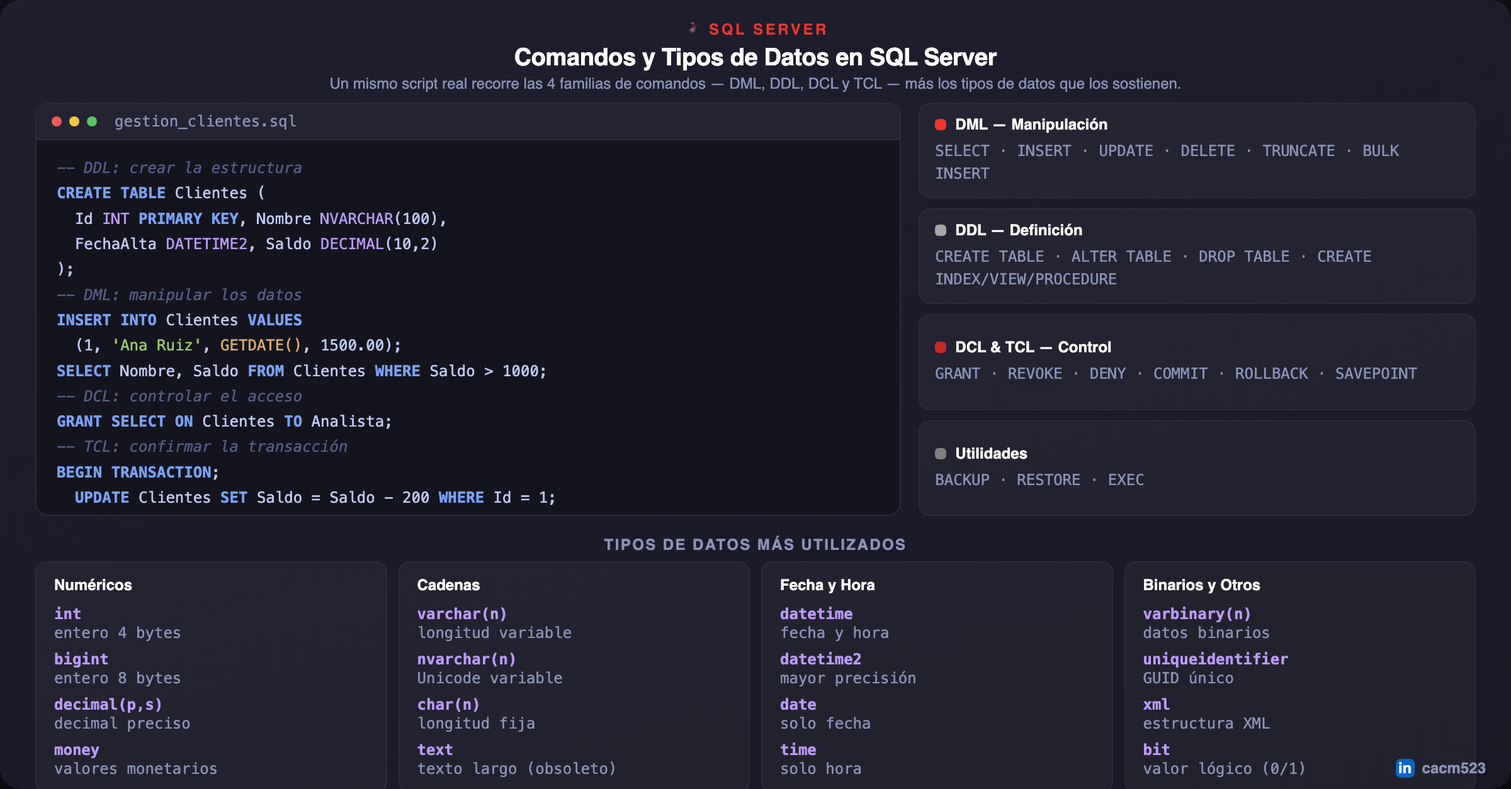
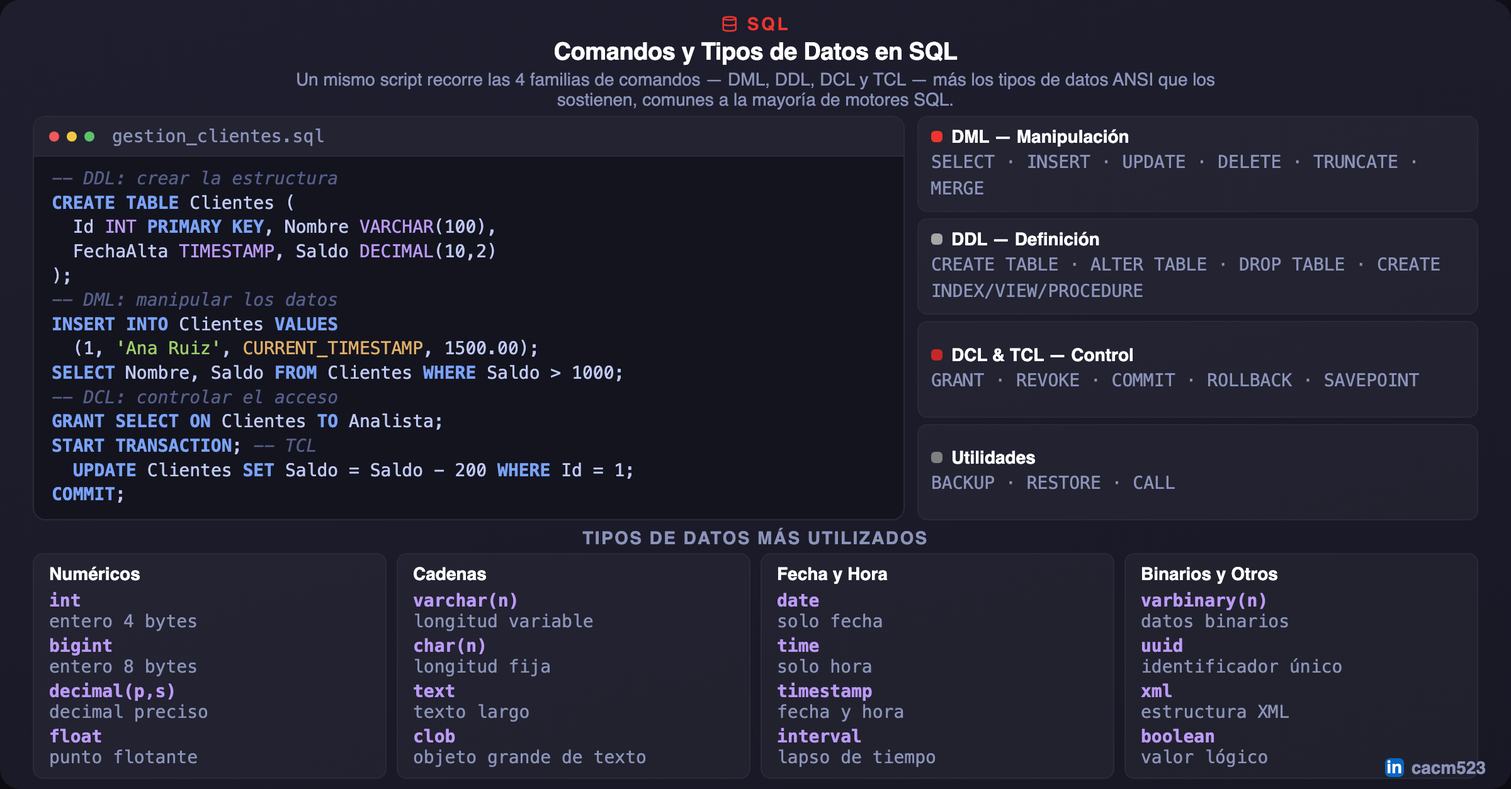
comandos-tipos-datos-sql: convierte de SQL Server a SQL genérico
Reemplaza el logo y la marca "SQL Server" por un ícono genérico de
base de datos y el título "SQL", y sustituye los tipos/comandos
específicos de dialecto (NVARCHAR, DATETIME2, GETDATE(), BEGIN
TRANSACTION, BULK INSERT, DENY, EXEC) por sus equivalentes ANSI SQL
estándar, comunes a la mayoría de motores (VARCHAR, TIMESTAMP,
CURRENT_TIMESTAMP, START TRANSACTION, MERGE, CALL). Ahora es la
referencia de diseño para el tema SQL sin acoplarse a un motor
puntual. Sube también el piso de fuente a 14px.

diff --git a/Construidos/SQL/comandos-tipos-datos-sql.html b/Construidos/SQL/comandos-tipos-datos-sql.html
@@ -2,7 +2,7 @@
 <html lang="es">
 <head>
 <meta charset="UTF-8">
-<title>Comandos y Tipos de Datos en SQL Server</title>
+<title>Comandos y Tipos de Datos en SQL</title>
 <meta name="viewport" content="width=device-width, initial-scale=1">
 <style>
   :root{
@@ -23,44 +23,44 @@
     position:relative; width:1200px; height:627px; margin:0 auto;
     background:linear-gradient(165deg, var(--bg) 0%, var(--bg2) 100%);
     border-radius:16px; box-shadow:0 24px 60px rgba(0,0,0,0.5); overflow:hidden;
-    padding:16px 28px 12px; color:var(--text);
+    padding:11px 26px 8px; color:var(--text);
     display:flex; flex-direction:column; min-height:0;
   }
 
-  .header{ text-align:center; margin-bottom:8px; }
-  .header .eyebrow{ display:inline-flex; align-items:center; gap:6px; font-size:12px; font-weight:700; letter-spacing:1.8px; color:var(--dml); text-transform:uppercase; margin-bottom:3px; }
+  .header{ text-align:center; margin-bottom:5px; }
+  .header .eyebrow{ display:inline-flex; align-items:center; gap:6px; font-size:14px; font-weight:700; letter-spacing:1.8px; color:var(--dml); text-transform:uppercase; margin-bottom:3px; }
   .header .eyebrow svg{ width:15px; height:15px; flex:none; }
   .header h1{ font-size:19px; margin:0 0 3px; font-weight:800; letter-spacing:-0.2px; color:#fff; }
-  .header p{ margin:0 auto; font-size:12px; color:#8B93B8; max-width:760px; }
+  .header p{ margin:0 auto; font-size:14px; color:#8B93B8; max-width:760px; }
 
-  .main{ flex:1.65; min-height:0; display:flex; gap:14px; }
+  .main{ flex:1.7; min-height:0; display:flex; gap:10px; }
   .editor{ flex:1.55; background:var(--editor); border-radius:10px; border:1px solid #2A2A3D; display:flex; flex-direction:column; overflow:hidden; }
   .editor .titlebar{ display:flex; align-items:center; gap:6px; padding:7px 12px; background:#232332; border-bottom:1px solid #2A2A3D; }
   .titlebar .dot{ width:8px; height:8px; border-radius:50%; }
   .titlebar .d1{ background:#F1595A; } .titlebar .d2{ background:#F2C744; } .titlebar .d3{ background:#5CC26A; }
-  .titlebar span{ margin-left:8px; font-size:12px; color:#8B93B8; font-family: "SF Mono", Menlo, Consolas, monospace; }
-  .code{ flex:1; padding:12px 16px; font-family: "SF Mono", Menlo, Consolas, monospace; font-size:12px; line-height:1.68; overflow:hidden; }
+  .titlebar span{ margin-left:8px; font-size:14px; color:#8B93B8; font-family: "SF Mono", Menlo, Consolas, monospace; }
+  .code{ flex:1; padding:8px 14px; font-family: "SF Mono", Menlo, Consolas, monospace; font-size:14px; line-height:1.38; overflow:hidden; }
   .code .ln{ color:#565F89; display:inline-block; width:16px; }
   .kw{ color:var(--keyword); font-weight:700; } .tp{ color:var(--type); } .st{ color:var(--string); } .cm{ color:var(--comment); font-style:italic; } .fn{ color:var(--func); }
 
-  .legend{ flex:1; display:flex; flex-direction:column; gap:8px; }
-  .cat{ flex:1; background:rgba(255,255,255,0.04); border:1px solid #2A2A3D; border-radius:9px; padding:9px 12px; display:flex; flex-direction:column; justify-content:center; }
-  .cat .top{ display:flex; align-items:center; gap:7px; margin-bottom:5px; }
+  .legend{ flex:1; display:flex; flex-direction:column; gap:5px; }
+  .cat{ flex:1; background:rgba(255,255,255,0.04); border:1px solid #2A2A3D; border-radius:8px; padding:5px 10px; display:flex; flex-direction:column; justify-content:center; }
+  .cat .top{ display:flex; align-items:center; gap:7px; margin-bottom:2px; }
   .cat .dotc{ width:9px; height:9px; border-radius:3px; flex:none; }
-  .cat b{ font-size:12px; font-weight:800; color:#fff; }
-  .cat span{ font-size:12px; color:#8B93B8; font-family: "SF Mono", Menlo, Consolas, monospace; line-height:1.5; }
+  .cat b{ font-size:14px; font-weight:800; color:#fff; }
+  .cat span{ font-size:14px; color:#8B93B8; font-family: "SF Mono", Menlo, Consolas, monospace; line-height:1.5; }
 
-  .types-label{ margin-top:16px; margin-bottom:6px; font-size:12px; font-weight:800; letter-spacing:1.2px; text-transform:uppercase; color:#8B93B8; text-align:center; }
-  .types{ flex:0.85; min-height:0; display:grid; grid-template-columns: repeat(4, minmax(0, 1fr)); gap:9px; }
-  .tcat{ background:rgba(255,255,255,0.04); border:1px solid #2A2A3D; border-radius:9px; padding:11px 14px; display:flex; flex-direction:column; justify-content:center; gap:7px; }
-  .tcat b{ font-size:12px; font-weight:800; color:#fff; display:block; margin-bottom:2px; }
-  .tcat .row{ display:flex; flex-direction:column; gap:1px; font-size:12px; font-family: "SF Mono", Menlo, Consolas, monospace; }
+  .types-label{ margin-top:6px; margin-bottom:4px; font-size:14px; font-weight:800; letter-spacing:1.2px; text-transform:uppercase; color:#8B93B8; text-align:center; }
+  .types{ flex:0.95; min-height:0; display:grid; grid-template-columns: repeat(4, minmax(0, 1fr)); gap:8px; }
+  .tcat{ background:rgba(255,255,255,0.04); border:1px solid #2A2A3D; border-radius:8px; padding:7px 12px; display:flex; flex-direction:column; justify-content:center; gap:3px; }
+  .tcat b{ font-size:14px; font-weight:800; color:#fff; display:block; margin-bottom:2px; }
+  .tcat .row{ display:flex; flex-direction:column; gap:0px; font-size:14px; line-height:1.18; font-family: "SF Mono", Menlo, Consolas, monospace; }
   .tcat .row code{ color:var(--type); font-weight:700; }
   .tcat .row span{ color:#8B93B8; }
 
   .footer{ position:absolute; bottom:9px; right:20px; display:flex; align-items:center; gap:6px; }
-  .li-badge{ width:15px; height:15px; border-radius:4px; background:#0A66C2; color:#fff; display:flex; align-items:center; justify-content:center; font-size:12px; font-weight:800; font-family: Arial, sans-serif; }
-  .footer span{ font-size:12px; font-weight:600; color:#8B93B8; }
+  .li-badge{ width:15px; height:15px; border-radius:4px; background:#0A66C2; color:#fff; display:flex; align-items:center; justify-content:center; font-size:14px; font-weight:800; font-family: Arial, sans-serif; }
+  .footer span{ font-size:14px; font-weight:600; color:#8B93B8; }
 </style>
 </head>
 <body>
@@ -69,9 +69,9 @@
   <div class="canvas">
 
     <div class="header">
-      <div class="eyebrow"><svg xmlns="http://www.w3.org/2000/svg" xml:space="preserve" viewBox="0.03 0 633.27 511.9"><linearGradient id="sqls1-a" x1="62.23" x2="62.483" y1="81.873" y2="81.873" gradientTransform="scale(115.9464 -115.9464)rotate(30.578 187.04 -69.817)" gradientUnits="userSpaceOnUse"><stop offset="0" style="stop-color:#909ca9"/><stop offset="1" style="stop-color:#ededee"/></linearGradient><path d="m429.3 163-69.9 22.8-60.8 26.9-17 4.5c-4.3 4.1-8.9 8.3-13.8 12.5-5.4 4.7-10.4 8.9-14.3 11.9-4.3 3.4-10.6 9.7-13.8 13.7-4.8 6-8.6 12.4-10.3 17.3-2.9 8.9-1.5 17.9 4.1 26.2 7.2 10.6 21.5 21.4 38.2 28.7 8.5 3.8 22.8 8.6 33.6 11.3 17.9 4.5 52.6 9.5 71.7 10.2 3.9.2 9 .2 9.3 0 .4-.3 3.4-5.9 6.8-13 11.7-23.9 20.2-46.4 24.8-65.6 2.7-11.6 4.9-27.1 6.3-45.5.4-5.1.5-22.3.2-28.1-.5-9.5-1.3-17.2-2.6-24.8-.2-1.1-.3-2.1-.2-2.2.2-.2.8-.4 9.5-2.9zm-15.9 9.4c.6 0 2.3 16.2 2.7 26.5.1 2.2.1 3.6-.1 3.6-.4 0-8.9-5-15-8.8-5.3-3.3-15.3-10-16.9-11.3-.5-.4-.5-.4 3.9-1.9 7.4-2.5 24.8-8.1 25.4-8.1m-35.6 11.7c.5 0 1.7.7 4.6 2.5 10.9 6.8 25.7 15.1 32 17.8 2 .8 2.2.5-2.3 3.6-9.6 6.6-21.6 13-36.3 19.5-2.6 1.2-4.8 2.1-4.8 2.1-.1 0 .2-1.3.6-2.9 3.5-13.2 5.6-26.5 5.7-37.2 0-5.3 0-5.3.5-5.4-.2 0-.1 0 0 0m-7.4 2.8c.3.3.1 12.2-.3 15.4-1 7.7-2.4 14.9-4.9 23-.6 2-1.1 3.6-1.2 3.7-.2.3-7.5-6.8-9.8-9.6-4.1-4.8-7.3-9.5-9.7-14.2-1.2-2.4-3.1-7-3-7.2.8-.5 28.7-11.3 28.9-11.1m-34.6 13.6c.1 0 .1 0 .2.1s.5 1 .8 1.9c1.7 4.6 5.5 11.4 8.8 15.7 3.6 4.8 8.3 9.8 12.2 13.2 1.3 1.1 2.4 2.1 2.6 2.2.3.3.4.3-8.2 3.5-10 3.8-20.9 7.6-33.4 11.6-3 1-6 1.9-8.9 2.9-.5.2-.3-.1 1.1-2.3 6.2-9.7 15.6-28.7 20.9-42.1.9-2.3 1.8-4.7 2-5.2.2-.7.5-1 1.2-1.4.2 0 .6-.1.7-.1m-10.5 4.4c.2.1-2.5 5.8-5.2 10.9-5.1 10-10.7 19.8-18.2 31.8-1.3 2.1-2.5 4-2.6 4.2-.3.4-.4.3-1.2-1.4-1.8-3.5-3.3-8.1-4.1-12.3-.8-4.1-.6-11.3.3-15.8.7-3.3.6-3.2 2.2-4 6.7-3.4 28.5-13.6 28.8-13.4m91.1 3.7v2.2c0 11.8-1.3 28-3.1 39.8-.3 2.1-.6 3.8-.6 3.8s-1.5-.4-3.3-1c-7.9-2.5-16.5-6.1-24.3-10.4-5.1-2.8-12.6-7.4-12.4-7.6.1-.1 2.3-1.2 4.9-2.6 10.4-5.4 20.3-11.2 28.9-17 3.2-2.2 8.1-5.7 9.1-6.6zm-131.1 15.6c.2 0 .2.4-.2 2.3-.2 1.4-.5 3.9-.6 5.7-.4 7.7.8 13.4 4.7 21.3 1.1 2.2 1.9 4 1.9 4-.4.3-35.4 10.6-46.4 13.6-3.3.9-6.1 1.7-6.3 1.7-.4.1-.4.1-.3-.8 1.2-7.8 7.1-17.9 15.4-26.5 5.5-5.7 9.9-9 17.4-13.3 5.4-3.1 13.7-7.7 14.3-7.9 0-.1.1-.1.1-.1m82.5 14.8c.1-.1 1.3.6 2.9 1.5 11.3 6.6 27.1 12.6 40.5 15.8l1.2.3-1.7 1c-7 3.9-30.1 13.5-53.8 22.4-3.4 1.3-6.8 2.5-7.5 2.8-.6.3-1.2.4-1.2.4 0-.1 1-1.9 2.2-4.2 6.6-12.4 13.3-27.4 16.7-37.9zm-8.4 2.7c.1.1-.4 1.2-.9 2.4-4.6 11.2-10.6 23.3-18.3 37l-3.6 6.3c-.1 0-1.6-1-3.5-2.1-11.2-6.9-21.1-15.3-27.6-23.5l-1-1.2 4.8-1.3c17.2-4.7 31.9-9.8 46.4-16 2-.9 3.7-1.6 3.7-1.6m52.2 18.3s.1 0 0 0c.1 1.2-2.6 12.1-4.9 20-1.8 6.6-3.4 11.8-6.3 20.9-1.3 4-2.4 7.3-2.4 7.3-.1 0-.4-.1-.7-.2-15.7-2.9-29.8-6.8-43-12.1-3.7-1.5-9-3.9-9.3-4.1-.1-.1 3.1-1.6 7.1-3.3 24.1-10.5 49-22.5 57.6-27.6 1-.6 1.8-.9 1.9-.9m-120.5 4.1c.1.1-6.6 9.8-16 22.9-3.3 4.6-7.1 10-8.5 12s-3.6 5.2-4.8 7.1l-2.2 3.4-2.4-2c-2.8-2.3-7.7-7.3-9.8-10-4.5-5.7-7.6-11.6-8.8-17.1-.6-2.5-.6-3.8-.1-4 .8-.2 14.9-3.5 28.1-6.6 7.3-1.7 15.9-3.7 18.9-4.4s5.5-1.3 5.6-1.3m6.7 2.6 1.7 1.9c7.6 8.5 15.4 14.8 24.8 20.3 1.7 1 3 1.8 2.9 1.9-.4.3-32.7 11.7-47.6 16.9-8.4 3-15.3 5.3-15.4 5.3s-.5-.3-1.1-.7l-1-.7 1.5-2.2c5-7.2 11.2-15.1 24.8-31.5zm42.2 30.2c.1-.1 2.4.8 5.2 1.9 6.9 2.6 12.3 4.2 19.6 6.1 9 2.3 22 4.5 29.7 5.1 1.2.1 1.8.2 1.6.4-.4.2-8.1 2.8-13.8 4.6-9.1 2.9-36.8 11-59.5 17.6-4.2 1.2-7.8 2.2-8 2.3-.5.1-2.3-.4-2.3-.6 0-.1 1.3-1.7 2.8-3.5 7.6-9.1 15.2-19.2 21.5-28.9 1.7-2.8 3.2-5 3.2-5m-9.3.2c.1.1-3.7 6.1-10.3 16.4-2.8 4.4-5.9 9.4-7 11.1s-2.6 4.3-3.5 5.8l-1.5 2.7-.8-.2c-1.9-.5-15.3-5.2-18.8-6.7-4.4-1.7-8.9-3.9-12.3-5.7-4.2-2.3-9.5-5.7-9.1-5.8.1-.1 7.3-2 16.1-4.4 23.2-6.3 36-9.9 44.4-12.6 1.4-.2 2.8-.6 2.8-.6m65.8 15.5c.3.5-8.3 24.3-11.4 31.8-.7 1.7-.9 2.1-1.3 2.1-.9-.1-13.3-1.8-20.9-2.9-13.2-2-35.3-5.9-40.8-7.1l-1.3-.3 7.9-1.8c16.9-3.8 25.1-5.9 33.3-8.4 10.4-3.2 20.7-7.1 31.1-12 1.7-.8 3-1.4 3.4-1.4" style="fill:url(#sqls1-a)"/><linearGradient id="sqls1-b" x1="61.44" x2="61.693" y1="73.151" y2="73.151" gradientTransform="matrix(80.3196 0 0 -80.3196 -4653.717 5908.5)" gradientUnits="userSpaceOnUse"><stop offset="0" style="stop-color:#939fab"/><stop offset="1" style="stop-color:#dcdee1"/></linearGradient><path d="M357.2 0c-1.2-.2-19.9 6.6-32 11.5-16.3 6.7-29 13-36.8 18.5-2.9 2.1-6.6 5.7-7.1 7.1-.2.5-.3 1.2-.3 1.8l7.1 6.7L305 51l40.1 7.2 45.9 7.9.5-4c-.2 0-.3-.1-.4-.1l-6-1-1.2-2.2c-6.2-11-13.1-24.6-17.1-33.8-3.1-7.1-6.1-15.4-7.7-21.3-1.2-3.4-1.3-3.6-1.9-3.7m-.8 2.7c.1.1.3 1.5.5 3.3.9 7.4 2.5 14.5 5.1 22.3 2 5.8 2 5.5-.3 4.8-5.4-1.5-29.5-5.7-47-8.1-2.8-.4-5.2-.7-5.2-.8-.2-.2 12.6-6.9 18.3-9.6C335 11.3 354.9 3 356.4 2.7m-51 23.7 2.1.7c11.2 3.8 39.4 9.2 54.9 10.5 1.7.2 3.2.3 3.3.3.1.1-1.4.8-3.3 1.7-7.5 3.8-15.8 8.4-21.5 11.9-1.7 1.1-3.2 1.9-3.4 1.9s-1.3-.2-2.5-.4l-2.1-.3-5.3-5.2c-9.3-9-16.6-16-19.4-18.7zm-2.1 1.6 7.5 9.3c4.1 5.1 8.2 10.1 9.1 11.3.9 1.1 1.6 2 1.6 2.1-.2.2-10.8-1.9-16.4-3.2-5.8-1.3-8.1-2-11.7-3.1l-2.9-1v-.7c.1-3.5 4.5-8.8 12.2-14.2zm63.4 12.7c.2 0 .5.5 1.1 1.9 1.8 4 7.4 14.6 8.8 16.7.4.7 1.2.7-6.3-.5-17.9-2.9-23.7-3.9-23.7-4s.5-.4 1.2-.8c5.6-3.1 11.2-7 16.1-11.2 1.2-1 2.3-2 2.5-2.1z" style="fill:url(#sqls1-b)"/><radialGradient id="sqls1-c" cx="62.555" cy="82.145" r=".146" gradientTransform="matrix(-177.6748 -26.6887 -53.9771 355.3494 15932.146 -27394.307)" gradientUnits="userSpaceOnUse"><stop offset="0" style="stop-color:#ee352c"/><stop offset="1" style="stop-color:#a91d22"/></radialGradient><path d="M281.6 36.4s-1.2 1.9-.1 4.6c.7 1.7 2.7 3.8 5 5.9 0 0 23.5 22.9 26.4 26.2 13 15 18.7 29.8 19.2 50.2.3 13.1-2.2 24.6-8.4 38-11 24-34.2 50.5-70 79.9l5.2-1.7c3.4-2.5 8-5.2 18.8-11.2 24.9-13.6 52.9-26.2 87.3-39.1 49.5-18.6 130.8-40.4 177.1-47.5l4.8-.7-.7-1.2c-4.2-6.6-7.1-10.6-10.6-15-10.1-12.6-22.5-22.8-37.5-31.2C477.4 82 450.6 73 416.6 66.3c-6.4-1.3-20.5-3.7-31.9-5.4-24.2-3.8-39.9-6.3-57.1-9.3-6.2-1.1-15.4-2.6-21.6-4-3.2-.7-9.3-2.1-14-3.8-3.7-1.4-9.2-2.9-10.4-7.4m13.6 13.2c.1-.1.9.3 2 .6 2 .7 4.6 1.5 7.7 2.3 2.3.6 4.6 1.3 7 1.9 3.2.8 5.8 1.5 5.9 1.5.4.4 5.7 17.4 7.5 24 .7 2.5 1.2 4.6 1.2 4.6-.1.1-.6-.8-1.3-2.1-6.2-10.9-16-21.9-27.3-30.8-1.6-1-2.7-1.9-2.7-2m26 7.2c.3 0 1.4.2 2.9.5 9 2 25.1 5.1 35.4 6.8 1.7.3 3.1.6 3.1.7s-.6.5-1.4.9c-1.7.9-8.8 5.1-11.1 6.7-5.9 3.9-11.2 8.1-15 11.9-1.5 1.5-2.9 2.8-2.9 2.8s-.3-.9-.6-2c-1.9-7.3-5.9-18.2-9.5-25.9-.4-1.2-.9-2.3-.9-2.4 0 .1 0 0 0 0m45.8 8.8c.3.1.8 1.9 1.9 5.9 2 7.7 2.9 16.2 2.5 24.2-.1 2.2-.2 4.3-.3 4.5l-.2.5-2.7-.9c-5.7-1.8-14.9-4.5-22.7-6.7-4.5-1.2-8.1-2.3-8.1-2.4 0-.3 6.6-6.9 9.4-9.4 5.3-4.7 19.7-15.9 20.2-15.7m3.7.5c.2-.2 21.9 3.6 31.8 5.5 7.3 1.4 18 3.6 18.7 3.9.3.1-.8.7-4.3 2.3-14 6.3-24.3 11.9-34.6 18.8-2.7 1.8-5 3.3-5 3.3-.1 0-.1-1.5-.1-3.4 0-10-2-20.2-5.7-28.8-.6-.8-.9-1.6-.8-1.6m56.2 11.1c.2.2-.5 4.4-1.2 7-1.9 7.9-7 19.6-13.3 30.6-1.1 2-2.1 3.5-2.2 3.6s-1.5-.7-3.2-1.7c-6.1-3.6-13.1-7-20.7-10.1-2.1-.9-4-1.6-4-1.7-.4-.3 16.7-11.6 25.6-17 7.1-4.5 18.7-10.9 19-10.7m4 .6c.5 0 10.1 2.6 15.1 4.1 12.4 3.7 26.7 8.9 36 13.2l3.9 1.7-2.7.6c-22.7 5.2-42.2 11.3-60.9 18.9-1.5.6-2.9 1.2-3 1.2s.4-1.2 1.1-2.7c5.7-12 9.3-24.5 10.2-35.2 0-1 .1-1.8.3-1.8m-95.8 22c.2-.2 7.5 1.6 11.5 2.7 6 1.7 18.8 6 18.8 6.3 0 .1-1.4 1.3-3.1 2.7-6.9 5.8-13.6 11.8-21.6 19.6-2.4 2.3-4.4 4.1-4.5 4.1s-.2-.3-.1-.7c1.2-8.9 1-20.3-.7-31.9-.2-1.5-.4-2.7-.3-2.8m154.4.2c.1.1-3.4 5.6-5.6 8.7-3.2 4.5-7.8 10.6-18.3 23.8-5.5 7-11.8 14.9-13.8 17.5-2.1 2.6-3.9 4.9-3.9 4.9-.1 0-.7-1-1.5-2.1-5.9-8.9-13-16.7-21.4-23.6-1.6-1.3-3.3-2.7-3.9-3.2-.6-.4-1.1-.8-1.1-.9 0-.2 9-4 15.8-6.8 11.9-4.9 28.2-10.7 40.4-14.4 6.4-2.1 13.2-4 13.3-3.9m4.1 1c.2-.1 1.5.6 3 1.5 12.8 7.3 25.4 16.8 35.4 26.5 2.8 2.7 9.7 9.9 9.6 10 0 0-2.4.2-5.3.4-22.3 1.7-50.7 6.4-78.1 13-1.9.4-3.5.8-3.6.8s2-2.1 4.5-4.5c16.1-15.5 23.4-25.3 32.1-42.7 1.2-2.6 2.3-4.8 2.4-5q-.15 0 0 0m-117.8 12.1c.7.2 7.6 3.4 12.8 6 4.8 2.4 11.9 6.2 12.3 6.5.1.1-2.5 1.4-5.6 2.9-9.9 5-18.4 9.7-27.3 15.1-2.5 1.5-4.7 2.8-4.7 2.8-.2 0-.2-.2 1.3-2.8 4.8-8.7 8.6-19 10.7-29.1.2-.9.4-1.4.5-1.4m-6.8 1.2c.2.2-1.6 6.7-2.7 10.2-2.2 6.7-5.8 15.1-9.4 21.5-.8 1.5-2.1 3.6-2.8 4.9l-1.3 2.1-3-2.9c-3.4-3.3-6.2-5.4-9.8-7.2-1.4-.7-2.5-1.4-2.5-1.5 0-.4 9-8.6 16-14.5 4.9-4.3 15.3-12.7 15.5-12.6m42 17.3 2.6 1.7c5.9 3.9 12.9 9 18.2 13.5 3 2.5 8.8 7.7 10 9l.6.7-4.3 1.2c-24.2 6.7-42.9 12.7-64.8 20.7-2.4.9-4.5 1.6-4.7 1.6-.3 0-.6.3 4.9-4.8 14-12.8 26.3-27 35.5-40.8zm-11 2.8c.1.1-7.1 10.3-11.5 16.1-5.2 6.9-14.4 18.4-20.7 25.9-2.6 3.1-4.9 5.7-5 5.8-.2.1-.2-.7-.2-2 0-6.4-1.6-13.2-4.5-19-1.2-2.4-1.4-3-1.2-3.3 1-.9 16.4-9.7 26.1-14.9 6.5-3.5 16.8-8.7 17-8.6m-66.9 16.4c.2 0 1.4.6 2.7 1.4 3.4 1.8 6.4 3.9 9.1 6.1.1.1-1.3 1.2-3.1 2.5-5 3.6-12.6 9.4-17.1 12.9-4.7 3.7-4.8 3.8-4.3 3 3.5-5.3 5.2-8.4 7.1-12.2 1.6-3.4 3.3-7.5 4.4-11 .6-1.6 1.1-2.7 1.2-2.7m17.9 13.9c.3-.1.6.4 2 2.5 3 4.5 5.3 10.5 5.9 15.4l.1 1.1-7.2 2.8c-13 5-24.9 10-33 13.7-2.3 1.1-6.2 3-8.8 4.2-2.6 1.3-4.7 2.3-4.7 2.3 0-.1 1.6-1.3 3.6-2.7 15.8-11.5 29.5-24.1 39.8-36.6 1.1-1.3 2.1-2.5 2.2-2.6zm-8.2 2c.2.2-5.8 7-9.9 11.2-10.2 10.4-20.3 18.6-32.8 26.5-1.6 1-3 1.9-3.2 2-.4.2.1-.3 5.6-6.3 3.5-3.8 6.1-6.9 9.1-10.8 2-2.6 2.4-3 5.3-5 7.7-5.6 25.6-17.8 25.9-17.6" style="fill:url(#sqls1-c)"/><path d="M113.8 385.6c-1 0-2 .1-2.9.1-19.7 1-33 9.7-40.7 26.6-6.6 15.3-5.9 35.3.1 50.7 7 15.1 18.2 23 37 26 4 .7 6.6 2.8 14.3 11.8l9.5 11.1h17.2l-11.4-11.5c-6.3-6.3-11.4-11.8-11.4-12.3s2.4-1.5 5.3-2.4c9.6-2.9 17.7-10.4 23.3-21.8 4.5-9.2 5.2-12 5.8-23.4 1.7-33.9-16.2-55.1-46.1-54.9m15.1 88.8c-8.4 4-20.5 4.9-28.4 2-8.2-3-16.1-11.5-19.7-21.2-4-10.5-3.4-30 1.1-38.7 7.3-13.9 16.9-20.3 31-20.3 20.9 0 32.8 12.8 34.3 36.9 1.3 20-5.4 35.1-18.3 41.3m296.9-59.8c-7.2 0-12.7 2.9-16.4 8.7l-2.9 4.6V416H394v71h12.5v-22.7c0-20.7.3-23.2 3.2-28.8 4-7.8 10.9-11.7 17.5-9.8l4.5 1.3v-12.3zm-73.3-.6c-2.4 0-5 .3-7.6.9-16.7 4.4-26.1 20.3-25.5 36.8 0 13.8 2.7 20.7 9.3 27.9 13.6 11.2 25.9 12.1 42.5 6.1 2.8-1.2 5.9-2.6 5.9-2.6v-11.2l-5.9 3.1c-13.4 5.9-23.6 5.9-31.7-1-5.2-5.3-7.5-11.6-8.5-18.8h50.3v-9.6c0-19.6-11.7-31.9-28.8-31.6m-20.3 31.1s1.9-12.2 8.8-16.9c3.3-2.3 7.1-3.5 10.9-3.5 3.7 0 7.5 1.2 10.5 3.6 6.3 4.9 7.4 16.8 7.4 16.8zM31.4 432.3c-13.5-8.2-19.5-14.1-18.8-21.1 2.1-19.3 25.9-16.6 39.1-9.3l.1-13s-7.3-3.2-17.7-3.3c-16-.2-26.4 5-31.3 15.7-7.1 15.8-.8 27.7 22 41 12.8 7.5 18.5 13.9 18.5 21 0 14.6-17.6 19.7-35.7 10.5-3.7-1.9-6.9-3.4-7.1-3.4-.7 4.1-.3 14-.3 14s5.6 2.3 13.9 4c20.7 4.1 39.6-5.6 41.4-21.4 1.6-14.8-3.8-22.6-24.1-34.7m504.8-18.5c-2.4 0-5 .3-7.7.9-16.7 4.4-26.1 20.3-25.4 36.8 0 13.8 2.7 20.6 9.3 27.8 13.6 11.2 25.9 12.1 42.6 6.1 2.8-1.2 5.9-2.6 5.9-2.6v-11.2l-5.9 3.1c-13.5 5.8-23.6 5.8-31.7-1.1-5.2-5.3-7.5-11.5-8.5-18.8H565v-9.6c.1-19.4-11.7-31.7-28.8-31.4m-20.3 31.1s1.9-12.2 8.8-17c3.3-2.3 7.1-3.5 10.8-3.5s7.5 1.2 10.5 3.6c6.3 4.9 7.4 16.9 7.4 16.9zm-228.7-12.5c-13.5-8.2-19.5-14.1-18.8-21.1 2.1-19.3 25.9-16.6 39.1-9.3l.1-13s-7.3-3.2-17.7-3.3c-16-.2-26.4 5-31.3 15.7-7.1 15.8-.7 27.7 22 41 12.8 7.5 18.5 13.8 18.5 20.9 0 14.6-17.6 19.8-35.7 10.5-3.7-1.9-6.9-3.4-7.1-3.4-.7 4.1-.3 14-.3 14s5.5 2.3 13.8 4c20.8 4.1 39.6-5.6 41.4-21.4 1.6-14.6-3.7-22.4-24-34.6m322.4-17.9c-7.2 0-12.8 2.9-16.4 8.7l-2.9 4.5v-11.8h-12.5v71h12.5v-22.7c0-20.7.2-23.2 3.2-28.8 4-7.8 10.9-11.7 17.5-9.8l4.5 1.3v-12.3zM188 432v-45.2h-12.6V487h52.9v-11.8H188zm290.9 14.1-10.4 27-10-27.1-10.1-30.1h-12.9c8.3 23.7 17.4 47.7 26.6 71 4 .1 7.9 0 11.9 0l14-35.2 14.3-35.9H490c0 .1-5.5 14.4-11.1 30.3M217 359.5c2 0 3.7-.6 5.1-2s2.1-3 2.1-5-.7-3.7-2.1-5-3-2-5-2-3.7.7-5.1 2c-1.4 1.4-2 3.1-2 5 0 2 .7 3.7 2 5 1.3 1.4 2.9 2 5 2m-4.5-11.5c1.2-1.2 2.7-1.8 4.6-1.8 1.8 0 3.2.6 4.5 1.8 1.2 1.2 1.9 2.7 1.9 4.5s-.7 3.3-1.9 4.5q-1.8 1.8-4.5 1.8t-4.5-1.8c-1.2-1.2-1.9-2.7-1.9-4.5q0-2.7 1.8-4.5m3 5.1h.8c.6 0 1.1.6 1.6 1.6l1 2.2h1.5l-1.2-2.4c-.5-1-1-1.5-1.5-1.7.7-.2 1.3-.4 1.7-.9.4-.4.6-1 .6-1.6 0-.7-.2-1.3-.7-1.7-.6-.5-1.4-.7-2.6-.7h-2.6v9.1h1.3v-3.8zm0-4.2h1.1c.8 0 1.4.2 1.7.4s.4.6.4 1.1c0 1-.7 1.5-1.9 1.5h-1.4zM7.7 352.3c0-3.2-.1-5.5-.2-6.9h.1c.3 1.6.7 2.9 1 3.7l12.1 27h2l12.1-27.2c.3-.7.7-1.9 1.1-3.4h.1q-.3 4.05-.3 6.9v23.8h4.1v-35.4h-5.2l-11.1 24.6c-.4 1-1 2.4-1.7 4.4h-.2c-.2-1-.8-2.4-1.6-4.2L9.2 340.7H3.7v35.4h4zm41.2.1h3.6v22h-3.6zm1.8-8.1c.7 0 1.4-.3 1.9-.7.5-.5.8-1.1.8-1.9 0-.7-.2-1.4-.8-1.9-.5-.5-1.1-.7-1.9-.7-.7 0-1.4.3-1.9.7-.5.5-.8 1.1-.8 1.9s.3 1.4.8 1.9 1.1.7 1.9.7m27.2 30.6V371c-2 1.5-4.1 2.2-6.2 2.2-2.6 0-4.7-.9-6.3-2.6-1.5-1.7-2.3-4-2.3-7 0-3.1.8-5.5 2.5-7.4q2.4-2.7 6.3-2.7c2.1 0 4.1.7 6 2v-4.1c-1.7-.9-3.6-1.3-5.8-1.3-4.1 0-7.2 1.3-9.6 3.8-2.3 2.5-3.5 5.9-3.5 10 0 3.7 1 6.7 3.2 9.1 2.3 2.4 5.2 3.6 8.8 3.6 2.7 0 4.9-.5 6.9-1.7m10.2-11.7c0-2.9.7-5.3 1.9-6.9 1.1-1.5 2.5-2.2 4.1-2.2 1.4 0 2.4.3 3.1.8v-4.2q-.9-.3-2.4-.3c-1.5 0-2.8.5-3.9 1.4-1.2 1-2.2 2.4-2.7 4.3H88v-5.2h-4v25.3h4zm23.2 13.4c3.8 0 6.9-1.2 9.2-3.7 2.3-2.4 3.4-5.7 3.4-9.7 0-4.1-1-7.3-3.2-9.6-2.1-2.3-5-3.5-8.8-3.5s-6.9 1.1-9.2 3.3c-2.4 2.4-3.7 5.8-3.7 10.2 0 3.8 1 7 3.2 9.3 2.3 2.5 5.3 3.7 9.1 3.7m-5.7-20.5c1.5-1.6 3.6-2.4 6.1-2.4q3.9 0 6 2.4c1.5 1.7 2.2 4.1 2.2 7.4 0 3.1-.7 5.5-2 7.1-1.4 1.7-3.4 2.6-6.1 2.6-2.6 0-4.6-.9-6.2-2.6-1.5-1.7-2.3-4.1-2.3-7.1-.1-3.1.7-5.7 2.3-7.4m36 18.3c1.5-1.4 2.4-3.1 2.4-5.2 0-1.9-.7-3.4-1.9-4.6-1-1-2.5-1.9-4.7-2.8-2-.8-3.2-1.5-3.8-2.1s-1-1.5-1-2.6c0-1 .4-1.9 1.2-2.5s1.9-1 3.3-1c2.2 0 4.1.6 5.8 1.8v-4.1q-2.4-1.2-5.4-1.2c-2.6 0-4.8.7-6.4 2.1-1.7 1.4-2.5 3.2-2.5 5.3 0 1.9.6 3.4 1.6 4.5.9 1 2.4 2 4.5 2.8 2 .9 3.4 1.7 4.1 2.3.7.7 1 1.5 1 2.4q0 3.6-4.8 3.6-3.6 0-6.6-2.4v4.4c1.8 1.1 3.9 1.5 6.2 1.5 3 0 5.4-.7 7-2.2m19.3-24.3c-3.8 0-6.9 1.1-9.2 3.3-2.4 2.4-3.7 5.8-3.7 10.2 0 3.8 1.1 7 3.2 9.3 2.3 2.4 5.3 3.7 9.1 3.7 3.9 0 6.9-1.2 9.2-3.7 2.3-2.4 3.4-5.7 3.4-9.7 0-4.1-1.1-7.3-3.2-9.6s-5.1-3.5-8.8-3.5m7.9 13.3c0 3.1-.7 5.5-2 7.1-1.4 1.7-3.4 2.6-6.1 2.6-2.6 0-4.6-.9-6.2-2.6-1.5-1.7-2.3-4.1-2.3-7.1q0-4.95 2.4-7.5c1.5-1.6 3.6-2.4 6.1-2.4q3.75 0 6 2.4c1.3 1.9 2.1 4.3 2.1 7.5m10.9 12.7h4v-21.9h5.9v-3.4h-5.9v-3.9c0-3.5 1.4-5.3 4.2-5.3 1 0 1.9.2 2.7.7v-3.7c-.7-.3-1.7-.4-2.9-.4-2.2 0-4 .7-5.4 2-1.7 1.6-2.6 3.7-2.6 6.6v4.1h-4.3v3.4h4.3zm16.6-6.9c0 4.9 2.2 7.5 6.6 7.5 1.6 0 2.8-.3 3.8-.8v-3.5c-.7.6-1.6.8-2.6.8-1.4 0-2.3-.3-2.9-1.1-.6-.7-.9-2-.9-3.6v-14.3h6.4v-3.4h-6.4v-7.5c-1.4.5-2.8.9-4.1 1.3v6.1h-4.4v3.4h4.4zm434.8 46.6c-1.4-1.3-3-2-5-2s-3.7.7-5.1 2c-1.4 1.4-2 3.1-2 5 0 2 .7 3.7 2 5 1.4 1.3 3.1 2 5.1 2s3.7-.7 5.1-2c1.4-1.4 2.1-3 2.1-5-.1-2.1-.8-3.7-2.2-5m-.6 9.5q-1.8 1.8-4.5 1.8c-1.8 0-3.2-.6-4.5-1.8a6.42 6.42 0 0 1-1.9-4.6c0-1.8.6-3.2 1.8-4.5q1.8-1.8 4.5-1.8c1.8 0 3.2.6 4.5 1.8 1.2 1.2 1.9 2.7 1.9 4.5 0 1.9-.5 3.4-1.8 4.6m-3.7-4.1c.7-.2 1.3-.5 1.7-.9s.6-1 .6-1.6c0-.7-.2-1.3-.7-1.7-.6-.5-1.5-.7-2.6-.7h-2.6v9.1h1.3v-3.8h.8c.6 0 1.1.6 1.6 1.6l1 2.2h1.5l-1.2-2.4c-.4-1.2-.9-1.7-1.4-1.8m-.9-.8h-1.4v-3.1h1.1c.8 0 1.4.1 1.7.4.3.2.4.6.4 1.1.1 1.1-.6 1.6-1.8 1.6m-226-70.7h1.1v-9.1h3v-1.1h-7.1v1.1h3zm6.9-6.8c0-.9 0-1.6-.1-2 .1.5.2.8.3 1l3.5 7.8h.6l3.5-7.9c.1-.2.2-.6.3-1-.1.8-.1 1.5-.1 2v6.9h1.2v-10.2h-1.5l-3.2 7c-.1.3-.3.7-.5 1.3h-.1c-.1-.3-.2-.7-.5-1.2l-3.2-7.1h-1.6v10.2h1.1z" style="fill:#231f1f"/></svg>SQL Server</div>
-      <h1>Comandos y Tipos de Datos en SQL Server</h1>
-      <p>Un mismo script real recorre las 4 familias de comandos — DML, DDL, DCL y TCL — más los tipos de datos que los sostienen.</p>
+      <div class="eyebrow"><svg xmlns="http://www.w3.org/2000/svg" viewBox="0 0 24 24" fill="none" stroke="currentColor" stroke-width="2" stroke-linecap="round"><path d="M3 5v14c0 1.1 3.6 2 8 2s8-.9 8-2V5"/><path d="M3 5c0 1.1 3.6 2 8 2s8-.9 8-2-3.6-2-8-2-8 .9-8 2Z"/><path d="M3 12c0 1.1 3.6 2 8 2s8-.9 8-2"/></svg>SQL</div>
+      <h1>Comandos y Tipos de Datos en SQL</h1>
+      <p>Un mismo script recorre las 4 familias de comandos — DML, DDL, DCL y TCL — más los tipos de datos ANSI que los sostienen, comunes a la mayoría de motores SQL.</p>
     </div>
 
     <div class="main">
@@ -79,26 +79,25 @@
         <div class="titlebar"><div class="dot d1"></div><div class="dot d2"></div><div class="dot d3"></div><span>gestion_clientes.sql</span></div>
         <div class="code"><span class="cm">-- DDL: crear la estructura</span><br>
 <span class="kw">CREATE TABLE</span> Clientes (<br>
-&nbsp;&nbsp;Id <span class="tp">INT</span> <span class="kw">PRIMARY KEY</span>, Nombre <span class="tp">NVARCHAR</span>(100),<br>
-&nbsp;&nbsp;FechaAlta <span class="tp">DATETIME2</span>, Saldo <span class="tp">DECIMAL</span>(10,2)<br>
+&nbsp;&nbsp;Id <span class="tp">INT</span> <span class="kw">PRIMARY KEY</span>, Nombre <span class="tp">VARCHAR</span>(100),<br>
+&nbsp;&nbsp;FechaAlta <span class="tp">TIMESTAMP</span>, Saldo <span class="tp">DECIMAL</span>(10,2)<br>
 );<br>
 <span class="cm">-- DML: manipular los datos</span><br>
 <span class="kw">INSERT INTO</span> Clientes <span class="kw">VALUES</span><br>
-&nbsp;&nbsp;(1, <span class="st">'Ana Ruiz'</span>, <span class="fn">GETDATE()</span>, 1500.00);<br>
+&nbsp;&nbsp;(1, <span class="st">'Ana Ruiz'</span>, <span class="fn">CURRENT_TIMESTAMP</span>, 1500.00);<br>
 <span class="kw">SELECT</span> Nombre, Saldo <span class="kw">FROM</span> Clientes <span class="kw">WHERE</span> Saldo &gt; 1000;<br>
 <span class="cm">-- DCL: controlar el acceso</span><br>
 <span class="kw">GRANT SELECT</span> <span class="kw">ON</span> Clientes <span class="kw">TO</span> Analista;<br>
-<span class="cm">-- TCL: confirmar la transacción</span><br>
-<span class="kw">BEGIN TRANSACTION</span>;<br>
+<span class="kw">START TRANSACTION</span>; <span class="cm">-- TCL</span><br>
 &nbsp;&nbsp;<span class="kw">UPDATE</span> Clientes <span class="kw">SET</span> Saldo = Saldo - 200 <span class="kw">WHERE</span> Id = 1;<br>
 <span class="kw">COMMIT</span>;</div>
       </div>
 
       <div class="legend">
-        <div class="cat"><div class="top"><div class="dotc" style="background:var(--dml)"></div><b>DML — Manipulación</b></div><span>SELECT · INSERT · UPDATE · DELETE · TRUNCATE · BULK INSERT</span></div>
+        <div class="cat"><div class="top"><div class="dotc" style="background:var(--dml)"></div><b>DML — Manipulación</b></div><span>SELECT · INSERT · UPDATE · DELETE · TRUNCATE · MERGE</span></div>
         <div class="cat"><div class="top"><div class="dotc" style="background:var(--ddl)"></div><b>DDL — Definición</b></div><span>CREATE TABLE · ALTER TABLE · DROP TABLE · CREATE INDEX/VIEW/PROCEDURE</span></div>
-        <div class="cat"><div class="top"><div class="dotc" style="background:var(--dcl)"></div><b>DCL &amp; TCL — Control</b></div><span>GRANT · REVOKE · DENY · COMMIT · ROLLBACK · SAVEPOINT</span></div>
-        <div class="cat"><div class="top"><div class="dotc" style="background:var(--util)"></div><b>Utilidades</b></div><span>BACKUP · RESTORE · EXEC</span></div>
+        <div class="cat"><div class="top"><div class="dotc" style="background:var(--dcl)"></div><b>DCL &amp; TCL — Control</b></div><span>GRANT · REVOKE · COMMIT · ROLLBACK · SAVEPOINT</span></div>
+        <div class="cat"><div class="top"><div class="dotc" style="background:var(--util)"></div><b>Utilidades</b></div><span>BACKUP · RESTORE · CALL</span></div>
       </div>
     </div>
 
@@ -108,25 +107,25 @@
         <div class="row"><code>int</code><span>entero 4 bytes</span></div>
         <div class="row"><code>bigint</code><span>entero 8 bytes</span></div>
         <div class="row"><code>decimal(p,s)</code><span>decimal preciso</span></div>
-        <div class="row"><code>money</code><span>valores monetarios</span></div>
+        <div class="row"><code>float</code><span>punto flotante</span></div>
       </div>
       <div class="tcat"><b>Cadenas</b>
         <div class="row"><code>varchar(n)</code><span>longitud variable</span></div>
-        <div class="row"><code>nvarchar(n)</code><span>Unicode variable</span></div>
         <div class="row"><code>char(n)</code><span>longitud fija</span></div>
-        <div class="row"><code>text</code><span>texto largo (obsoleto)</span></div>
+        <div class="row"><code>text</code><span>texto largo</span></div>
+        <div class="row"><code>clob</code><span>objeto grande de texto</span></div>
       </div>
       <div class="tcat"><b>Fecha y Hora</b>
-        <div class="row"><code>datetime</code><span>fecha y hora</span></div>
-        <div class="row"><code>datetime2</code><span>mayor precisión</span></div>
         <div class="row"><code>date</code><span>solo fecha</span></div>
         <div class="row"><code>time</code><span>solo hora</span></div>
+        <div class="row"><code>timestamp</code><span>fecha y hora</span></div>
+        <div class="row"><code>interval</code><span>lapso de tiempo</span></div>
       </div>
       <div class="tcat"><b>Binarios y Otros</b>
         <div class="row"><code>varbinary(n)</code><span>datos binarios</span></div>
-        <div class="row"><code>uniqueidentifier</code><span>GUID único</span></div>
+        <div class="row"><code>uuid</code><span>identificador único</span></div>
         <div class="row"><code>xml</code><span>estructura XML</span></div>
-        <div class="row"><code>bit</code><span>valor lógico (0/1)</span></div>
+        <div class="row"><code>boolean</code><span>valor lógico</span></div>
       </div>
     </div>
 
